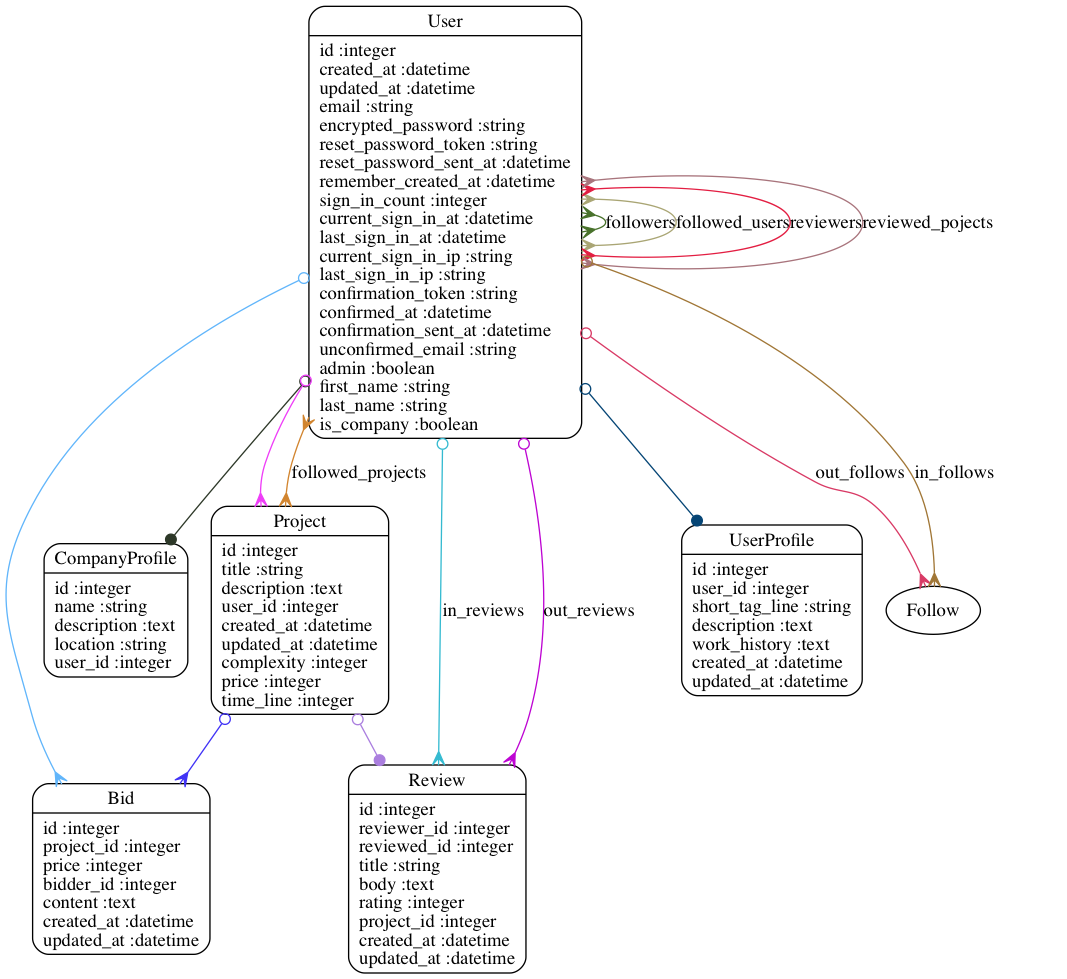
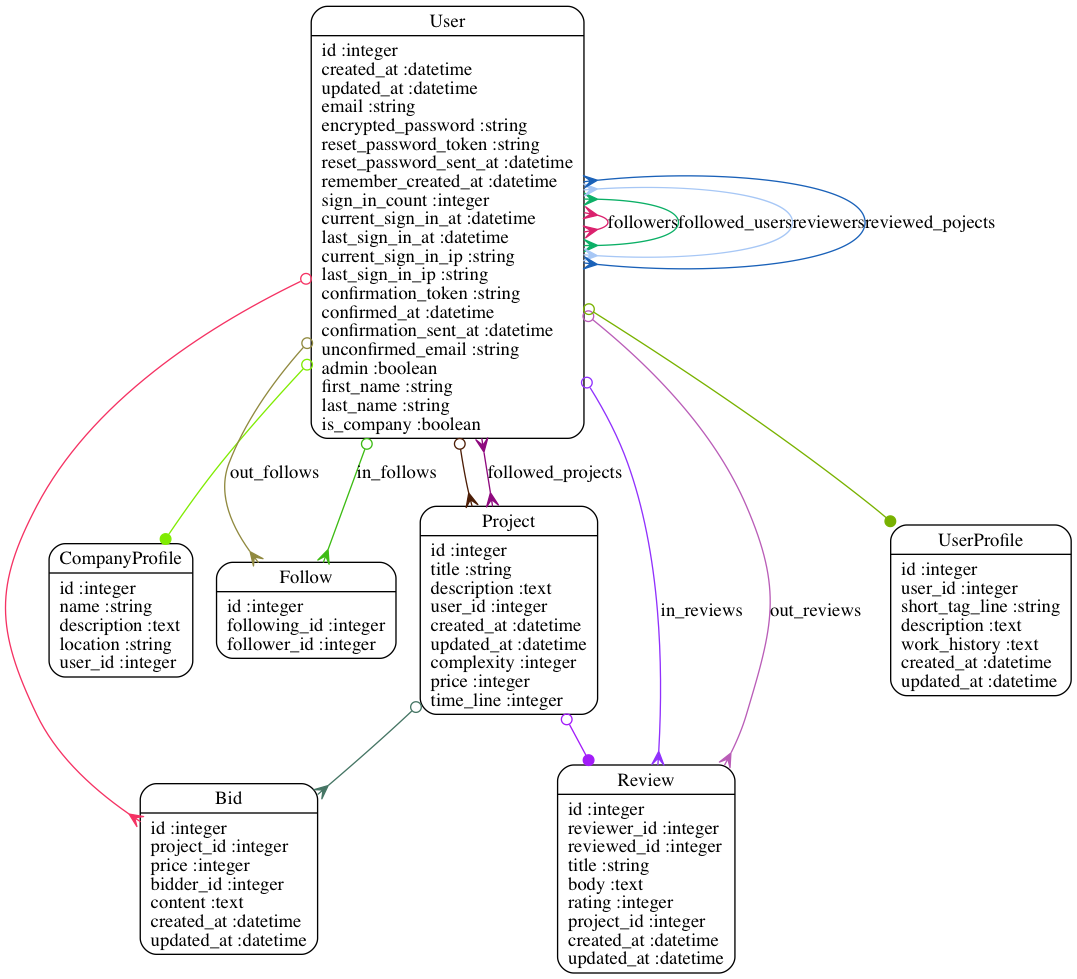
added follows to readme

diff --git a/README.md b/README.md
@@ -46,4 +46,8 @@ Currently, reviews only have a `title`, `body`, and a `rating`.
 Tags are very important for finding appropriate consultants, or for finding appropriate projects.
 The `name` is searchable, and the `taggings_count` will show which tags are popular, and therefore help Users choose better tags.
 
+### Follows
+
+A user may follow another user or project through the `Follows` join table.
+
 ![](/models.png)
